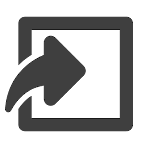
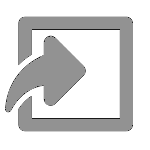
small logout button

diff --git a/src/main/webapp/index.css b/src/main/webapp/index.css
@@ -159,12 +159,12 @@ input[type=submit], input[type = text],input[type = number], input[type = passwo
 
 .leftbar a.button {
     padding: 0px;
-    width: 35px;
-    height: 35px;
+    width: 31px;
+    height: 31px;
     position: absolute;
     bottom: 3%;
     left: 19%;
-    background-image: url(search.png);
+    background-image: url(exit.png);
     background-size: 100%;
 }
 
